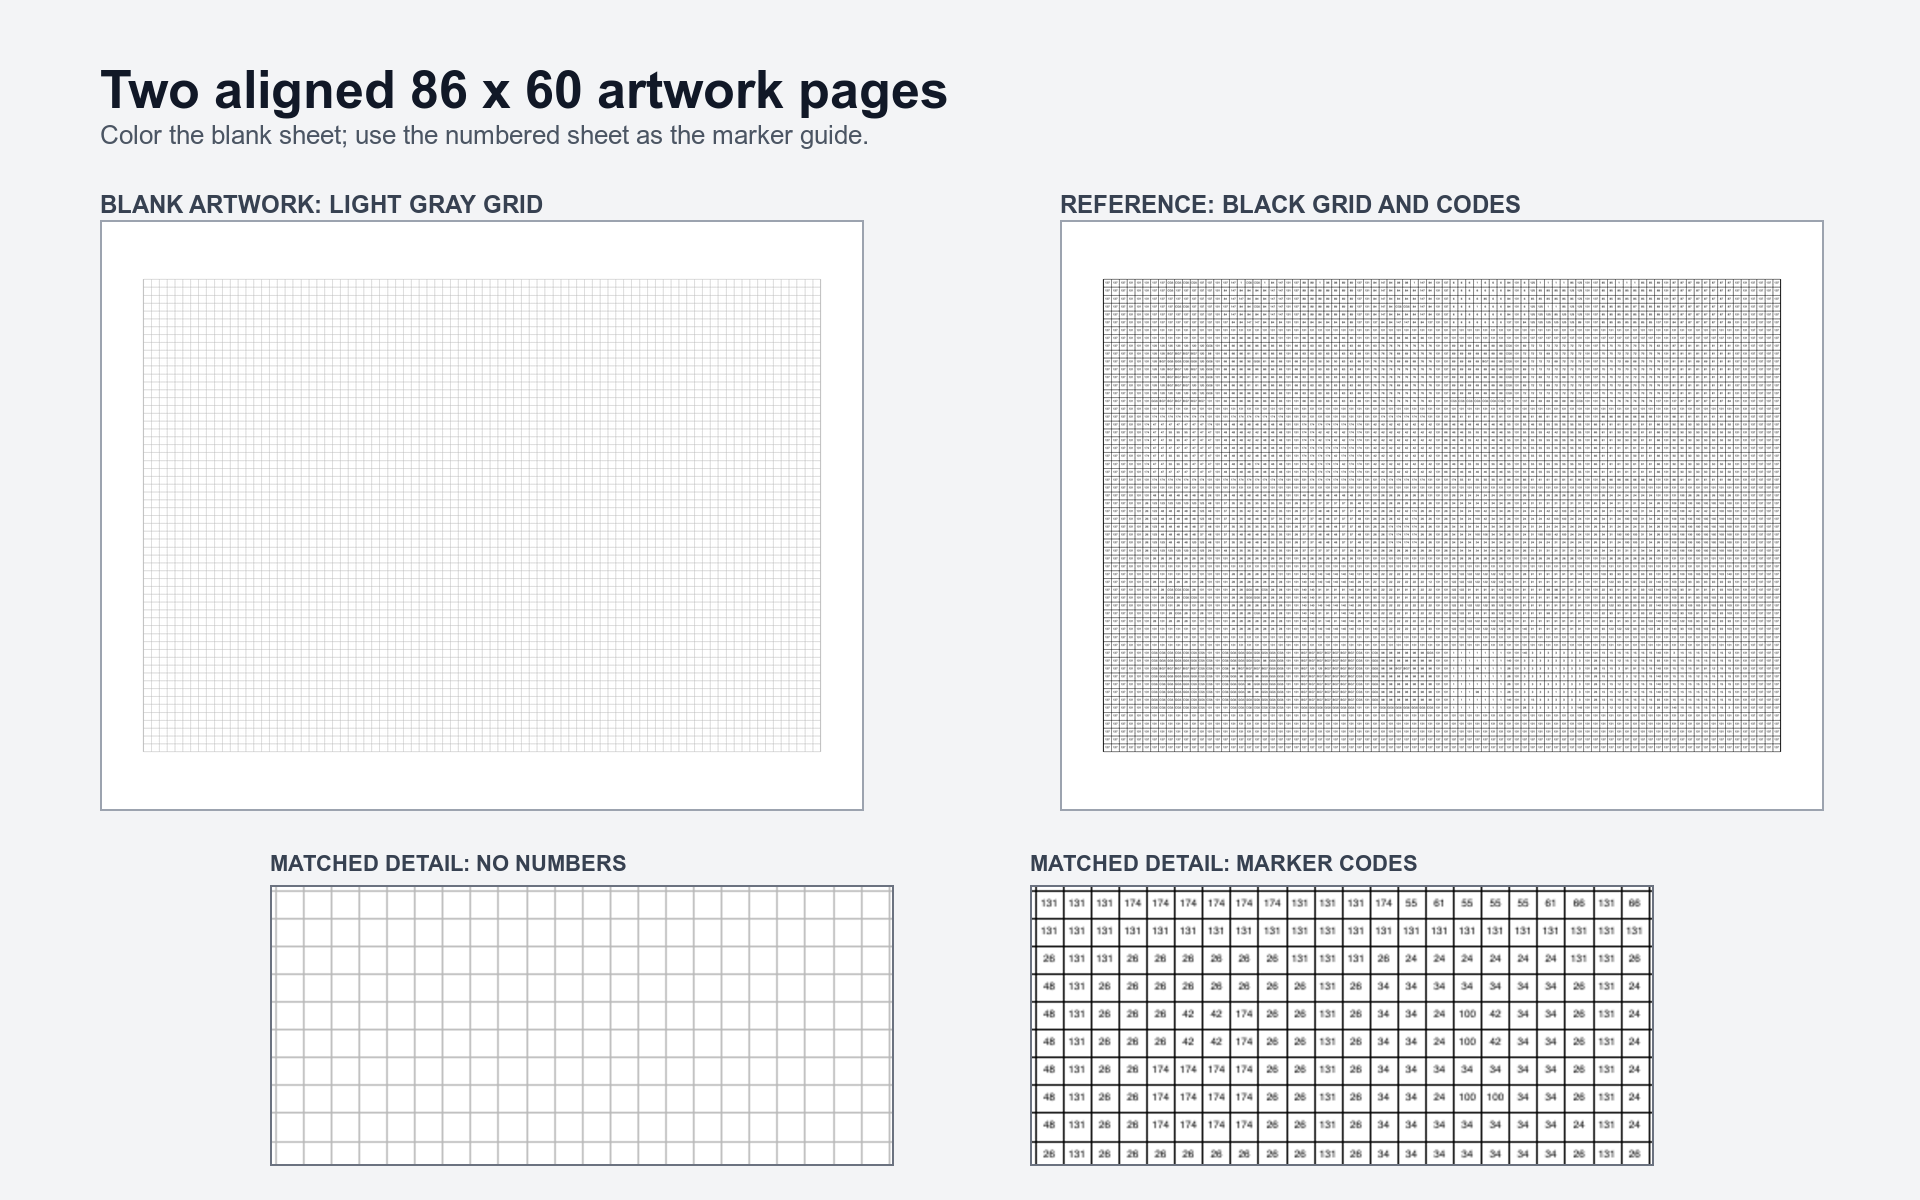
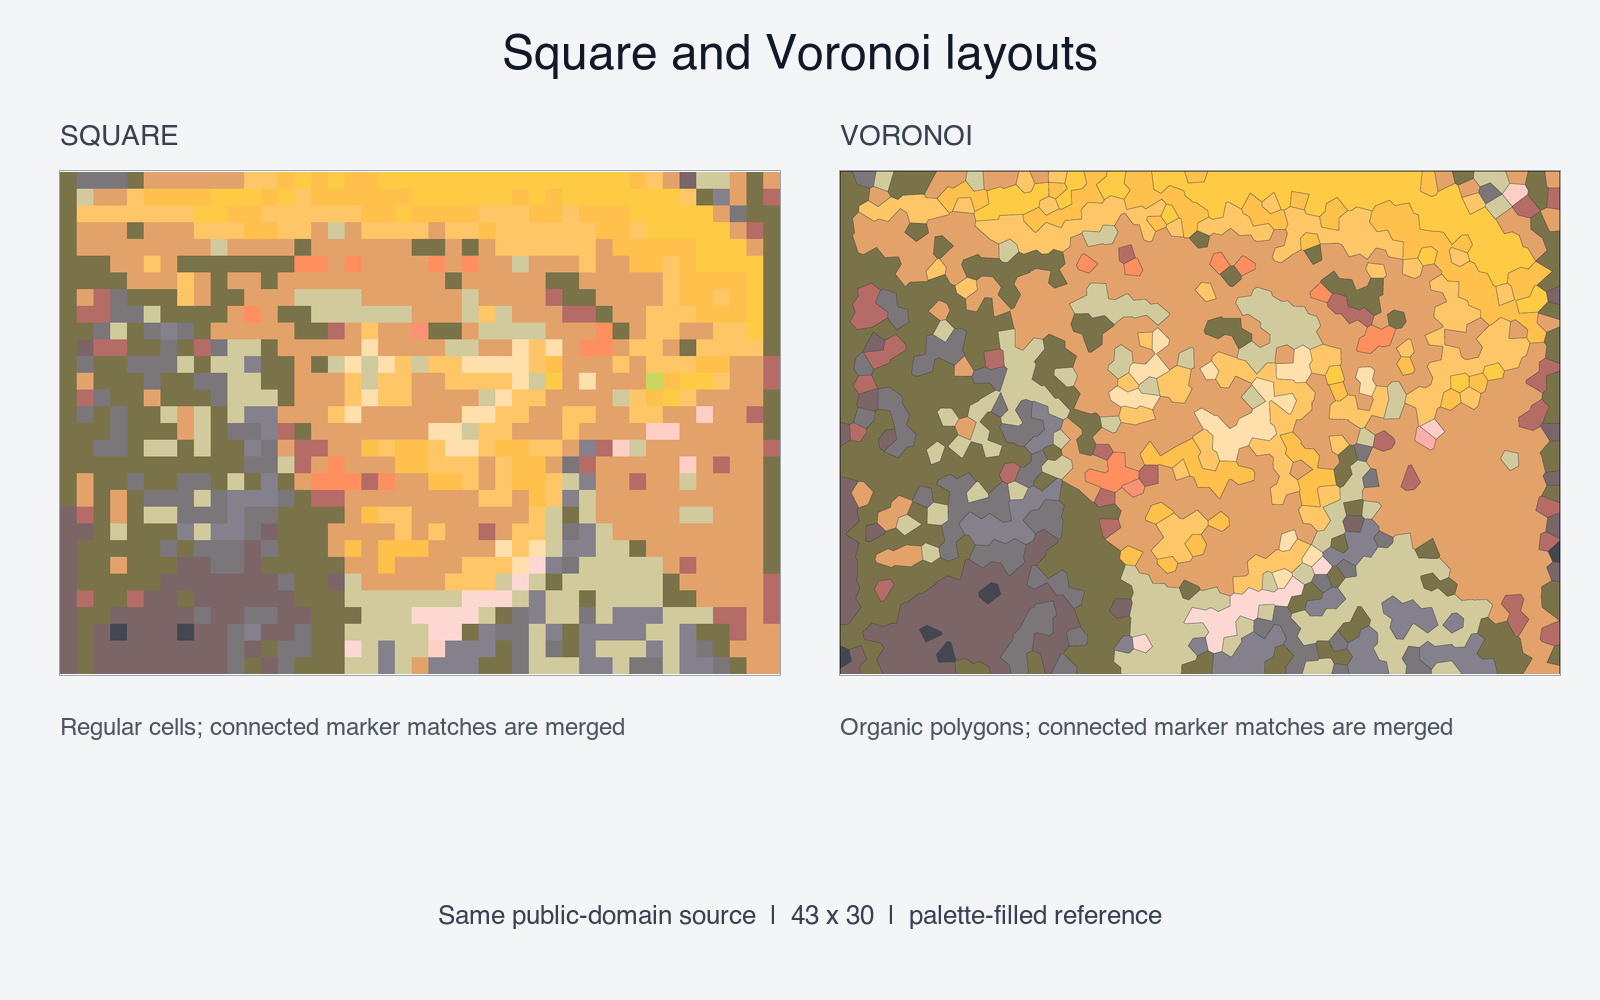
updated

diff --git a/README.md b/README.md
@@ -1,37 +1,41 @@
 # Color-by-number tool
 
-Turn any photograph into a printable, configurable color-by-number pattern for artists who need
-exactly one Aoartix marker code in every unfilled square by default, oriented to match the source.
+Turn photographs into printable color-by-number worksheets for marker artists, using either crisp
+square cells or organic Voronoi regions with matched codes, blank artwork, and aligned references.
+
+## See both layouts
+
+Square mode makes a regular worksheet with predictable cell sizes. Voronoi mode follows an organic
+polygon structure that better suits subjects where a rigid grid is distracting. Both modes can
+merge connected shapes assigned the same marker color before the PDFs are drawn.
 
 <!-- screenshots:begin (managed by screenshot-docs) -->
-![Aligned 86 by 60 blank gray grid and black numbered marker-code reference page](docs/screenshots/paired_artwork_pages.png)
+![Square and Voronoi merged marker layouts compared](docs/screenshots/paired_artwork_pages.png)
 <!-- screenshots:end -->
 
-## From photo to 5,160 decisions
+The comparison uses a `43x30` working resolution with same-color merging enabled. Its square panel
+is the generated marker preview; its Voronoi panel is rendered directly from the filled PDF
+reference page. The source is Vincent van Gogh's public-domain *Self-Portrait with a Straw Hat*
+from The Metropolitan Museum of Art.
 
-The tool reduces a photograph to a strict physical worksheet instead of a blended digital effect.
-By default, every square is an independent, usable marker decision:
+## From photograph to printable regions
 
-- 86 columns by 60 rows in landscape by default, or 60 columns by 86 rows in portrait.
-- Configurable grid resolution through `-g COLUMNSxROWS` or `--grid COLUMNSxROWS`.
-- Optional `-m` merging of edge-adjacent shapes assigned the same marker code into one printable
-  region.
-- By default, one printed marker code in every square; with `-m`, one code in each connected
-  same-color printable region, including codes such as `120` and `BG7`.
-- White worksheet cells with black grid lines and no pre-colored boxes.
-- Sharp ReportLab vector PDFs with square cells and measured Letter-page margins.
-- Perceptual matching against the supplied 48-color Aoartix marker set.
-- Selective shadow-detail expansion that keeps dark textured colors from collapsing into black.
-- Separate source and marker previews for judging the result before printing.
+The tool samples the source, matches each sample to the supplied 48-color Aoartix marker palette,
+and turns the assignments into printable regions:
 
-ReportLab creates a one-page reference PDF and a two-page final-artwork PDF as crisp vector artwork.
-The reference places the numbered grid beside a colored marker key. The artwork PDF uses the largest
-grid that fits within 0.6-inch Letter margins: page one is a light-gray blank grid, and page two is
-the exactly aligned black numbered grid. Wide and square sources use landscape; tall sources use
-portrait.
+- `square` is the default layout, with 86 by 60 landscape cells or 60 by 86 portrait cells.
+- `voronoi` uses the same requested count and aspect ratio to construct bounded organic polygons.
+- `-g COLUMNSxROWS` changes the working resolution for either layout.
+- `-m` merges edge-adjacent shapes with the same marker assignment into a single outlined region.
+- Every rendered region receives one marker code; labels are kept fully inside their region when
+  space permits and otherwise use the best available maximum-clearance interior position.
+- Page orientation follows the corrected source image unless `-L` or `-P` overrides it.
+- Perceptual color matching and selective shadow enhancement preserve useful dark detail.
 
-Color the blank first artwork page while reading marker codes from the second page. The matching
-cell geometry keeps the final picture free of printed numbers.
+The printable PDFs are the primary result. Square mode creates a two-page blank and numbered
+artwork PDF plus a compact marker-key PDF. Voronoi mode creates one three-page PDF containing the
+blank artwork, numbered reference, and filled palette reference. Because the pages in each set use
+the same vector geometry, they remain aligned when printed at the same scale.
 
 ## Before the first print
 
@@ -39,9 +43,10 @@ The built-in RGB values come from the supplied product chart, not physical ink s
 ink appearance changes with paper, lighting, and camera capture. The chart palette is a useful
 starting point; measured swatches on the final paper provide the closest physical match.
 
-The default 86 by 60 resolution retains more facial detail than the original 43 by 30 grid, but
-the marker palette still limits color detail. Use the generated source and marker previews to judge
-the crop and resolution before printing the worksheet.
+The default 86 by 60 resolution retains fine source detail, but its printed regions are small.
+Start with `-g 43x30` for larger regions and more legible codes, then increase the resolution only
+when the subject needs it. Use the generated source and marker previews to judge the crop, layout,
+and palette reduction before printing.
 
 The default strong enhancement changes only two measured color groups: locally changing dark
 colors receive a shadow curve, and warm midtones receive a modest chroma boost. Flat backgrounds
@@ -57,22 +62,26 @@ Use Python 3.12 and install the packages in `pip_requirements.txt` as described 
 source source_me.sh && python3 color_by_number.py -i palettes/marker_image_set.jpg
 ```
 
-The command creates seven artifacts under `output/`:
+The default square run writes its primary PDFs under `output/pdf/`:
 
 ```text
-Created 86 x 60 landscape color-by-number diagram:
-  diagram: output/pdf/color_by_number.pdf
-  artwork pages: output/pdf/color_by_number_grid_only.pdf
-  marker preview: output/pdf/color_by_number_marker_preview.png
-  source preview: output/pdf/color_by_number_source_preview.png
-  assignments: output/pdf/color_by_number_assignments.csv
-  legend: output/pdf/color_by_number_legend.csv
-  summary: output/pdf/color_by_number_summary.txt
+output/pdf/color_by_number.pdf
+output/pdf/color_by_number_grid_only.pdf
 ```
 
 Open `output/pdf/color_by_number_grid_only.pdf` and print both pages in its generated orientation.
 Use `output/pdf/color_by_number.pdf` for the colored marker key. Replace the input path with the
 photograph to convert.
+
+For the organic layout with larger regions and same-color merging:
+
+```bash
+source source_me.sh && python3 color_by_number.py \
+  -i photograph.jpg --layout voronoi -g 43x30 -m
+```
+
+Open `output/pdf/color_by_number.pdf` and print all three pages at the same scale. Page one is
+blank, page two is the numbered reference, and page three is the filled marker-color reference.
 
 ## Try a public-domain portrait
 
@@ -97,30 +106,32 @@ public-domain works, but keep the artist, title, and museum with shared results:
 Download one image, save it locally, and pass its path to `-i`. Keep the museum attribution in any
 published comparison so other readers can reproduce the same test.
 
-## One image, seven artifacts
+## Outputs that support the print
 
 | Output | What it provides |
 | --- | --- |
-| `color_by_number.pdf` | One Letter page with the white code grid and a colored side key. |
-| `color_by_number_grid_only.pdf` | Aligned blank-gray and black-numbered full-grid Letter pages. |
-| `color_by_number_marker_preview.png` | The photograph reconstructed with marker colors. |
-| `color_by_number_source_preview.png` | The unquantized, orientation-matched source-color reference. |
-| `color_by_number_assignments.csv` | The code, name, and RGB choice for every grid position. |
-| `color_by_number_legend.csv` | Every palette entry with base square and rendered-region counts. |
-| `color_by_number_summary.txt` | Grid and merge settings, base and rendered-region counts, reduction, and Delta E metrics. |
+| Square `color_by_number_grid_only.pdf` | Aligned blank-gray and black-numbered artwork pages. |
+| Square `color_by_number.pdf` | Compact numbered worksheet with a colored marker key. |
+| Voronoi `color_by_number.pdf` | Aligned blank, numbered, and filled-reference polygon pages. |
+| Marker or polygon preview PNG | Quick visual check of selected marker colors and boundaries. |
+| Source preview PNG | Orientation-matched source-color reference for comparison. |
+| Legend and summary | Palette usage, rendered-region reduction, and color-error statistics. |
 
-Use `-o output/pdf/family_portrait.pdf` to choose the worksheet filename. All companion files inherit
-the `family_portrait` stem. Use `-f contain` to preserve the complete source image instead of center
-cropping it.
+Use `-o output/pdf/family_portrait.pdf` to choose the worksheet filename. All companion files
+inherit the `family_portrait` stem. Use `-f contain` to preserve the complete source image instead
+of center cropping it.
 
 Automatic page orientation follows the EXIF-corrected source dimensions. Use `-L` or `--landscape`
 to force landscape or `-P` or `--portrait` to force portrait. The default `-g 86x60` value describes
 landscape columns by rows; portrait swaps it to 60 by 86. Square sources use landscape unless
 overridden. Use another resolution, such as `-g 43x30`, for larger physical squares.
 
-Choose `-e none`, `-e balanced`, or `-e strong`. The strong default was selected from controlled
-comparisons on `kimi-face.png`: it exposes the most hair structure and restores warm skin
-separation, while balanced remains closer to the source under Delta E 76.
+Choose `-e none`, `-e balanced`, or `-e strong`. Strong is the default when preserving visible
+shadow structure matters most; balanced stays closer to the source under the reported Delta E 76
+metric.
+
+Per-shape assignment CSV files are also generated for analysis and automation. They are diagnostic
+companions rather than part of the normal printing workflow.
 
 ## Aoartix marker palette
 